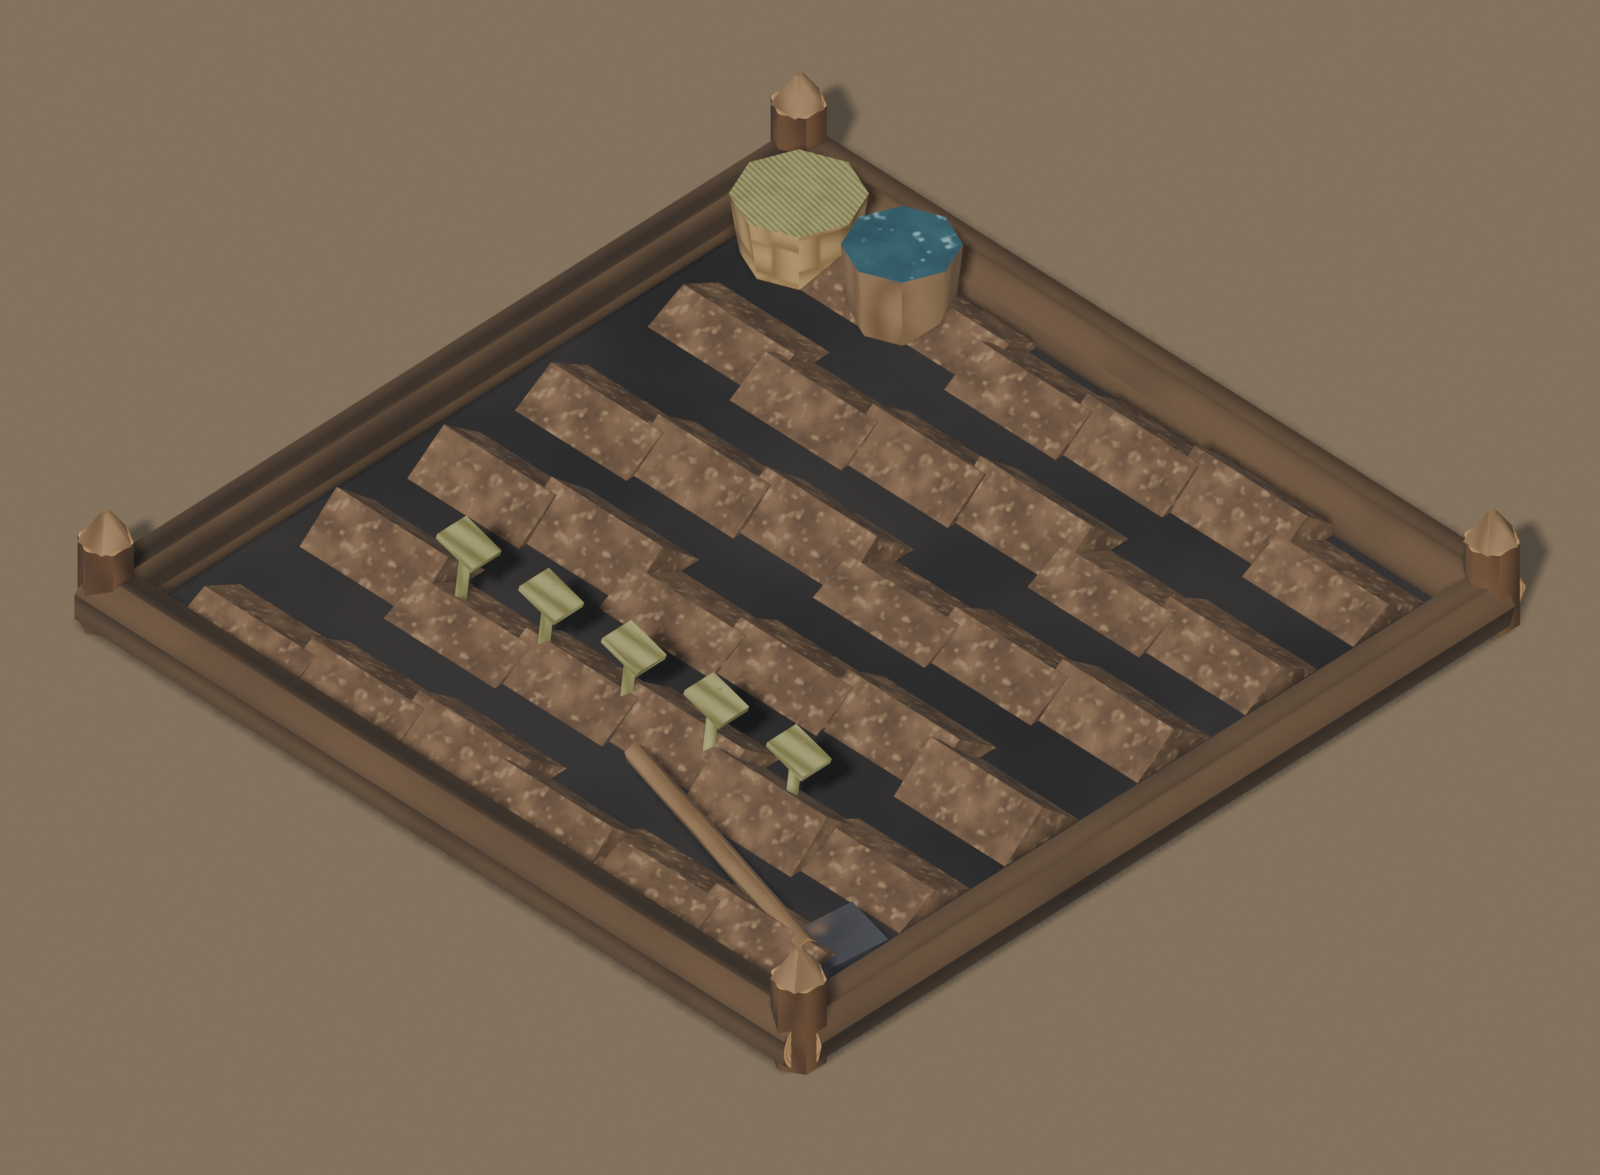
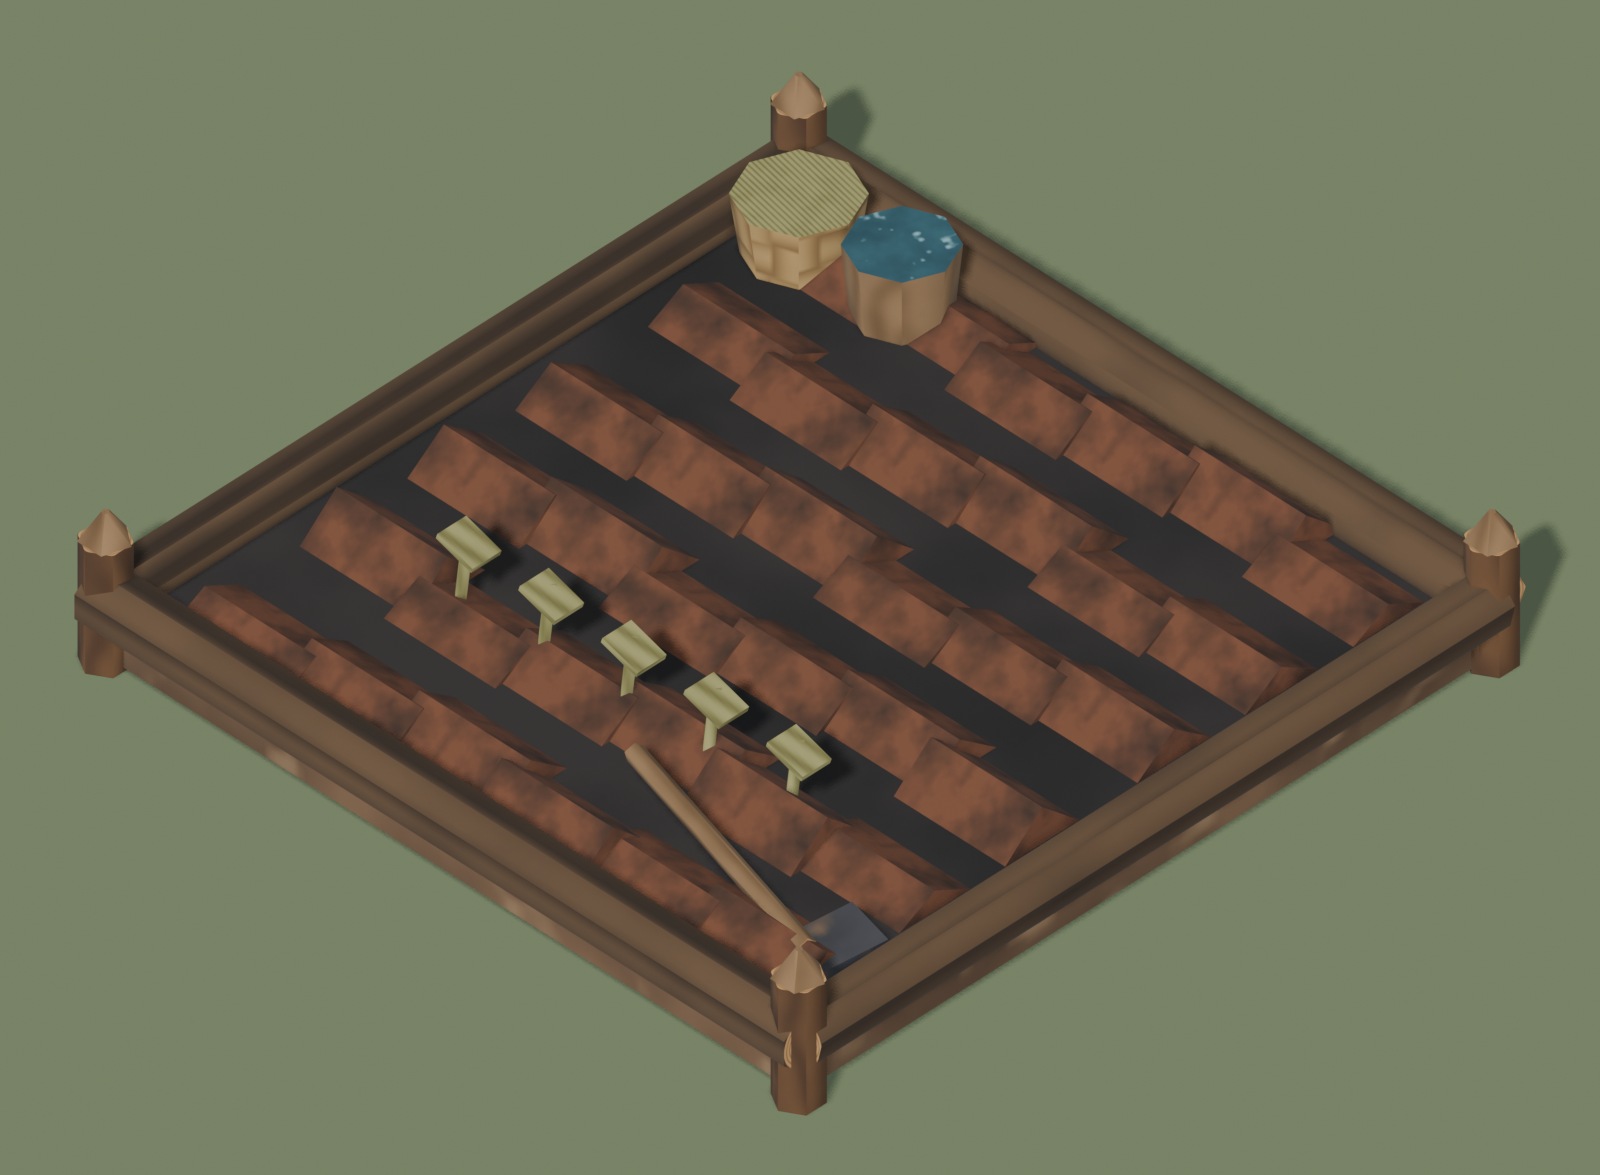
DSC-CAMP round 3: fields skip the foundation disc with dark furrows under clay ridges; report and field sheets updated

diff --git a/docs/orchestration/reports/dsc-camp-pieces.md b/docs/orchestration/reports/dsc-camp-pieces.md
@@ -29,6 +29,24 @@ merged builders produce the same output.
 | minor tri budget under the brief's 300 floor | straw_roll gets 16-segment roll and ties and a third tie (324 tris), bedroll gets the second seam band (304), signpost gets two nail heads (336). Every kind is now inside 300-2500. |
 | minor report contradicted itself | Rewritten (this file). |
 
+## Round 3 (finishing the r1 findings, 2026-10-20)
+
+- **Fields skip the foundation disc.** `PropVisuals.ensure_foundation` returns early for field_small and
+  field_large as it does for straw_roll; `preview.py` skips the disc for them too, so the sheets match.
+  The bed (solid from the terrain up to 0.10 m) stays as a raised bed.
+- **Furrows clearly darker than ridges.** The ridges use `clay_dark` (warm brown) over the `soot` furrow
+  floor. The round-2 `dirt` ridges read pale tan, like slats; now the fields read as tilled soil in
+  Forward+, gl_compatibility and at 844x390.
+- `verify_camp.sh` step 4 accepts `game/scripts/world/prop_visuals.gd` (allowed by the brief).
+- Branch merged with `claude/mmo-overhaul` (W1-UI, W1-SRVDOM, codex-animals, W2-PLAYER); `git diff
+  claude/mmo-overhaul` outside `work/` and `tools/` lists only the report, `props_manifest.json` and
+  `prop_visuals.gd`.
+- In-game shots after the change (probe lab with all 18 kinds plus workbench/well/tent and survivor
+  stand-ins; Forward+ 1600x900, gl_compatibility 1600x900, gl_compatibility 844x390), looked at:
+  fields read as dark-furrowed soil inside a log frame with no dirt disc; fence taller than a survivor;
+  survivor fits under the shelter lintel; bed longer than the survivor; campfire coals glow; tent floor
+  and bedroll visible. Shots: implementer scratchpad `camp/shots/{fwd,gl,phone}_*.png`.
+
 ## Per kind
 
 | kind | tris | AABB (m, x × y up × z) | atlas tiles |
@@ -47,7 +65,7 @@ merged builders produce the same output.
 | stone_grill | 840 | 1.34 × 0.54 × 1.35 | stone, stone_dark, cobble, ash, char, ember, fish, meat_drying, meat_raw, clay, clay_dark, iron |
 | tent_canvas | 804 | 2.90 × 2.27 × 1.85 | wood, wood_dark, canvas, canvas_slope, leather_dark, rope, stone, hide, weave, fiber, clay, clay_dark, plank |
 | fence_fortified | 1052 | 2.06 × 2.22 × 0.56 | bark, log_end, wood, wood_dark, rope, stone |
-| field_small | 756 | 1.79 × 0.34 × 1.80 | dirt, soot, bark, log_end, wood, wood_dark, iron, weave, fiber, water |
+| field_small | 756 | 1.79 × 0.34 × 1.80 | dirt, clay_dark, soot, bark, log_end, wood, wood_dark, iron, weave, fiber, water |
 | field_large | 1008 | 2.79 × 0.34 × 2.80 | same as field_small |
 | log_shelter | 1636 | 3.39 × 3.14 × 3.33 | bark, log_end, wood, wood_dark, thatch, rope, hide, plank, fiber, clay, clay_dark, stone, ash, ember, char |
 | cabin_bed | 620 | 2.04 × 1.15 × 1.29 | plank, wood, wood_dark, bark, log_end, hide, leather_dark, fiber, rope, canvas, clay, ember |
@@ -58,11 +76,10 @@ material and does not merge.
 
 ## Caveats for the integrator and Cursor
 
-- **Foundation disc.** The models now assume the 0.08 m disc. If Cursor ever skips `ensure_foundation`
-  for a kind (straw_roll is already skipped and is built for bare terrain), that model's ground detail
-  floats about 8 cm above the terrain. The cleanest future rule is "a field is its own dirt": skip the
-  disc for field_small/field_large and drop their bed by 0.08 m in `_field`. That would be a coordinated
-  Cursor + builder change and was not done here.
+- **Foundation disc.** The models assume the 0.08 m disc, except straw_roll and the two fields, which
+  `PropVisuals.ensure_foundation` now skips (round 3, the one `prop_visuals.gd` edit the brief allows).
+  A field is its own dirt: its 0.10 m raised bed stands on the terrain, not in a round patch twice its
+  size. If Cursor ever skips the disc for another kind, that model's ground detail floats about 8 cm up.
 - **11 of the 18 kinds cannot be placed in game yet.** Only stone_grill, field_small, field_large,
   straw_roll, log_shelter and cabin_bed have kits, and `BuildPlacer._spawn` handles only those. chest
   shows only as the camp CargoWarp. campfire_stand, technical_workbench, grindstone, tent_canvas,
@@ -119,7 +136,7 @@ material and does not merge.
 
 - Squash only these paths: `tools/blender/structures/{structures,check_manifest,preview}.py`, the 18
   GLBs and their `.glb.import` files in `game/assets/props/blender/`, `game/data/props_manifest.json`,
-  this report, and optionally `tools/dsc/{verify_camp.sh,camp_base_glbs.sha256,camp/TASK.md}`. Drop
+  `game/scripts/world/prop_visuals.gd` (fields skip the disc), this report, and optionally `tools/dsc/{verify_camp.sh,camp_base_glbs.sha256,camp/TASK.md}`. Drop
   `work/`. Everything else on the branch equals overhaul `cdb2c165`.
 - Rebuild a model with `Blender -b --factory-startup -P tools/blender/structures/build.py -- <name>`.
   Build named models only: a build with no names rewrites every GLB. Then run
